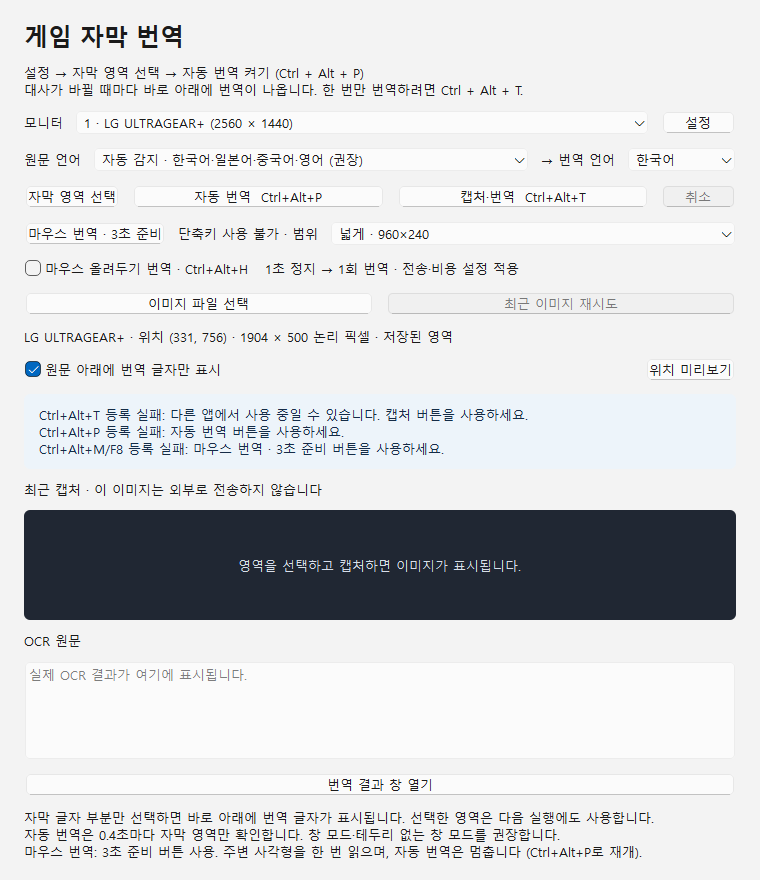
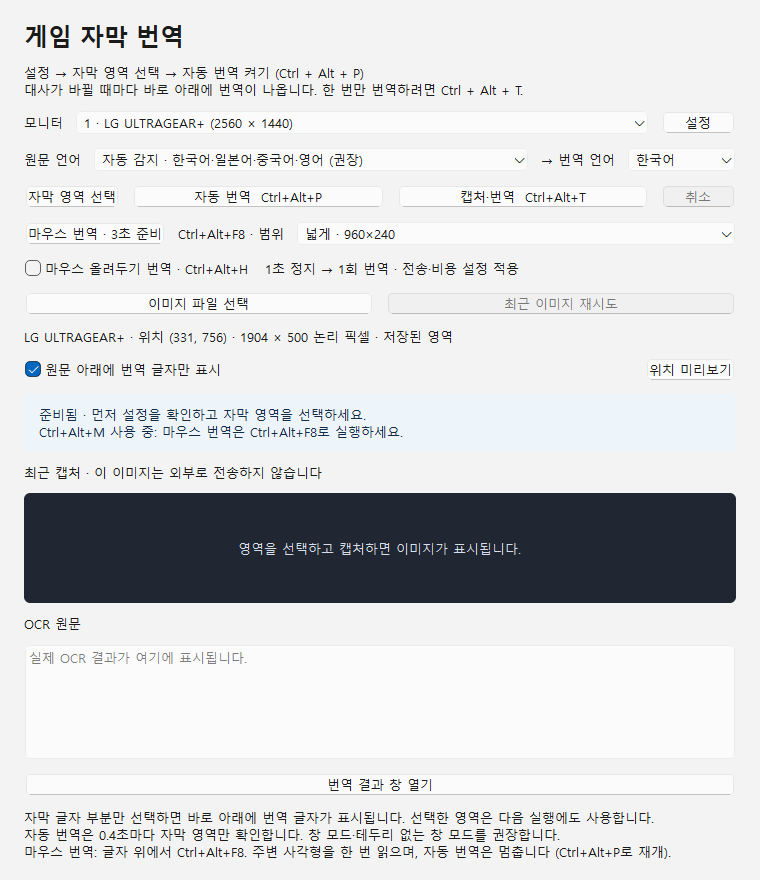
11

diff --git a/docs/validation.md b/docs/validation.md
@@ -399,3 +399,9 @@ C++ 구현 확인: 빌드한 `subtitle_cli.exe`로 같은 192장을 읽어 **96.
 Claude 작업 로그를 확인한 뒤 기존 글자 위치 탐지 모델은 유지했습니다. 큰 캡처에서 작은 문장 끝 변화를 지워 버리던 160px 비교 이미지, 간헐적 배경 움직임에서 계속 초기화되던 대기 타이머, OCR 실패 후 같은 화면을 영구히 건너뛰던 상태를 수정했습니다. OCR 실패는 3초 간격 최대 2회 재확인하며 번역 API 오류에는 자동 재전송하지 않습니다.
 
 CTest 7개 그룹 통과. 자동 감지 14개, UI 19개 통과(초기화·정리 포함). 실제 잘못된 모델 로딩 실패 → 정상 모델 복원 → 같은 일본어 화면 재캡처·실제 OCR 복구를 검증했습니다. 사용자 게임의 실패 화면 재검증과 게임 창 추적 연결은 미완료입니다. [상세 인계·검증 기록](auto-translation-recovery.ko.md).
+
+## 마우스 올려두기 번역 설치 완료 (2026-09-30)
+
+Ctrl+Alt+H로 켜고 끄는 1초 정지 번역을 추가했습니다. 같은 위치는 한 번만 읽고, 드래그·자체 창·대화 상자에서는 대기하며 이동 또는 끄기로 이전 요청을 취소합니다. 앱 재실행 시 꺼짐, 기존 고정 영역 자동 번역과 상호 배타적이며 저장 영역을 보존합니다.
+
+기존 앱을 종료한 뒤 CTest 7개 그룹 모두 통과(36.97초), Windows UI 22개 통과. 앞서 다른 창과 함께 실행할 때 실패했던 기존 game_windows 테스트도 7개 모두 통과했습니다. 실제 캡처/PaddleOCR을 사용하되 포인터와 시간은 테스트에서 공급했고, 새 외부 번역 API 요청은 보내지 않았습니다. 설치본 스모크 종료 코드 0, 배포본과 설치본 해시 일치. [사용법·구현 경계](mouse-hover.ko.md), [최종 검증 기록](evidence/windows-hover-checks.json).

diff --git a/docs/mouse-hover.ko.md b/docs/mouse-hover.ko.md
@@ -31,7 +31,7 @@
 - 테스트에서는 포인터 좌표·경과 시간을 직접 공급해 1초 대기, 작은 흔들림, 같은 위치의 중복 억제, 이동·끄기 시 취소, 드래그와 자체 창 회피를 확인합니다.
 - 실제 화면에 일본어 테스트 창을 띄워 주변을 캡처하고 실제 PaddleOCR로 읽습니다. 네트워크 키를 비운 테스트이므로 OCR 성공을 번역 성공으로 표시하지 않습니다.
 - 고정 영역 자동 번역과의 상호 전환, 저장 영역 유지, 새 실행에서 꺼짐, 네이티브 단축키 메시지 처리를 확인합니다.
-- 신규 세 테스트는 초기화·정리를 포함하여 5개 통과했습니다. 최종 전체 검증과 설치 상태는 [검증 기록](evidence/windows-hover-checks.json)을 확인하세요.
+- 신규 세 테스트는 초기화·정리를 포함하여 5개 통과했습니다. 기존 앱 종료 후 최종 CTest 7개 그룹 전부 통과했고, Windows UI 검증은 22개 통과했습니다. 설치본 실행 종료 코드 0과 배포본/설치본 SHA-256 일치도 확인했습니다. [최종 검증 기록](evidence/windows-hover-checks.json).
 - [UI 화면](evidence/windows-hover-ui.png). 실제 사용자의 게임별 인식 품질·물리 키보드 입력·혼합 배율 다중 모니터는 이 테스트만으로 확인한 것으로 보지 않습니다.
 
 ### 공식 API 근거
